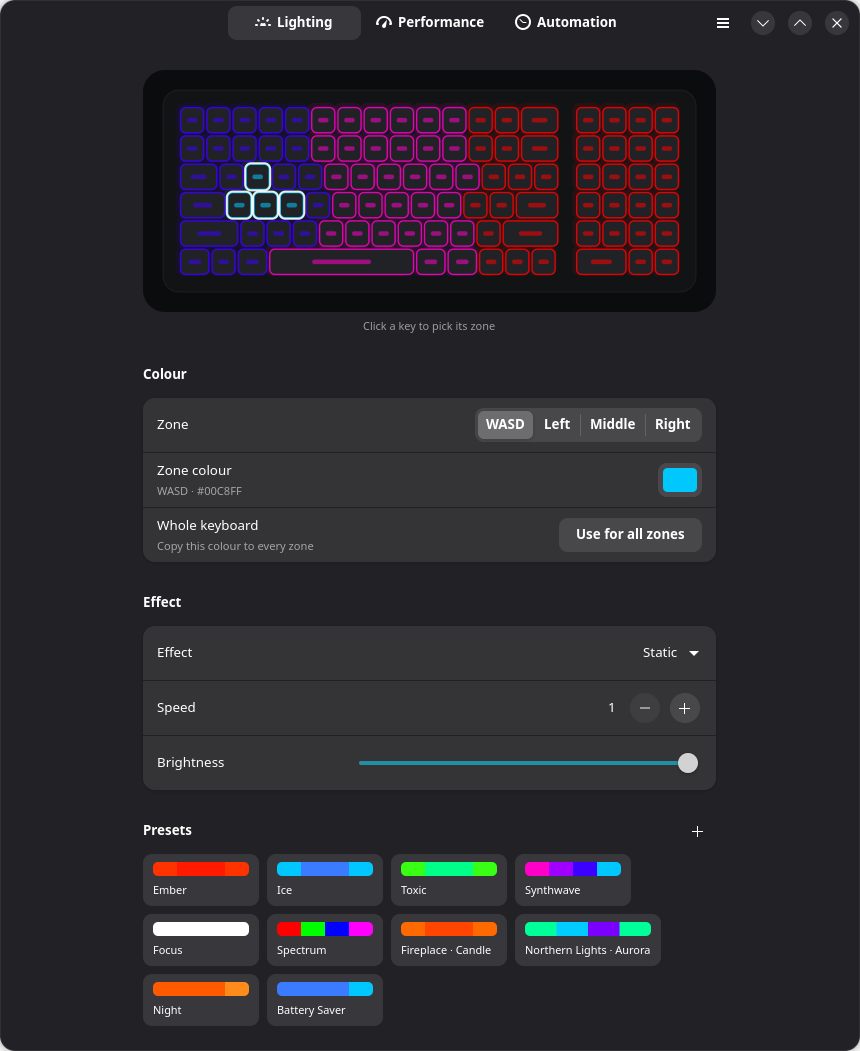
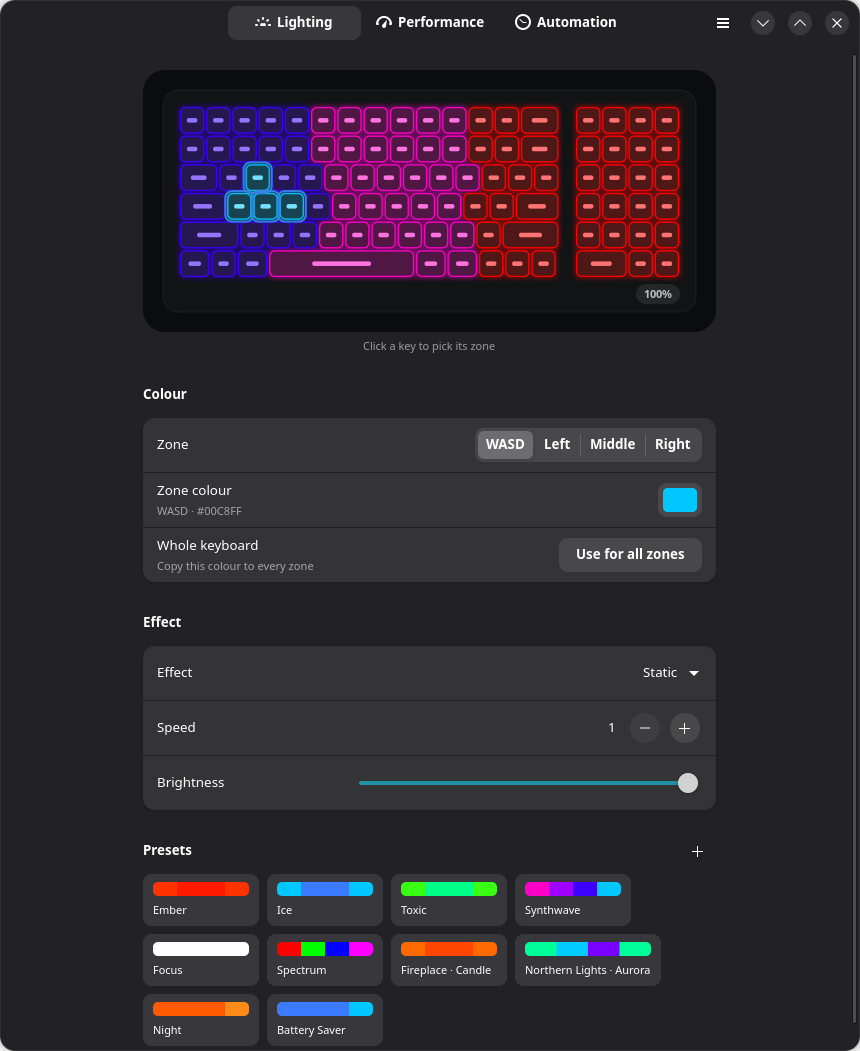
Keyboard preview: light keys according to brightness
Keycaps tint, legends glow and a halo spreads with brightness on a
perceptual curve; 0% shows unlit keys. The selected zone gets an accent
ring so white zones stay readable, the preview follows the slider live,
and a badge shows the level.

diff --git a/prism/widgets.py b/prism/widgets.py
@@ -107,7 +107,7 @@ class KeyboardPreview(Gtk.DrawingArea):
 
     def __init__(self, on_select: Callable[[int], None] | None = None):
         super().__init__()
-        self.set_content_height(230)
+        self.set_content_height(250)
         self.set_hexpand(True)
         self.colors: list[RGB] = [(1, 0, 0)] * 4
         self.brightness = 1.0
@@ -180,7 +180,8 @@ class KeyboardPreview(Gtk.DrawingArea):
         cr.stroke()
 
         inner = 16
-        kx, ky, kw, kh = bx + inner, by + inner, bw - 2 * inner, bh - 2 * inner
+        foot = 26  # strip under the keys for the brightness badge
+        kx, ky, kw, kh = bx + inner, by + inner, bw - 2 * inner, bh - 2 * inner - foot + 8
         main_units = max(sum(r[0]) for r in self.ROWS)
         pad_units, gap_units = 4, 0.6
         unit = kw / (main_units + gap_units + pad_units)
@@ -201,30 +202,66 @@ class KeyboardPreview(Gtk.DrawingArea):
                     x += kwid
         self._keys = keys
 
-        if b > 0:
-            for x, y, kwid, kh_, zone in keys:
-                cr.set_source_rgba(*_scale(self._shown[zone], b), 0.10)
-                rounded_rect(cr, x - g, y - g, kwid + g, kh_ + g, 8)
-                cr.fill()
+        # Perceived light: a 15% backlight still reads as dimly lit, not off.
+        k = b ** 0.55 if b > 0 else 0.0
+        if k > 0:
+            # Soft halo leaking around each key, widest at full brightness.
+            for spread, alpha in ((g * 2.6, 0.05), (g * 1.6, 0.08), (g * 0.8, 0.12)):
+                for x, y, kwid, kh_, zone in keys:
+                    cr.set_source_rgba(*self._shown[zone], alpha * k)
+                    rounded_rect(cr, x - spread / 2, y - spread / 2, kwid + spread, kh_ + spread, 8)
+                    cr.fill()
         for x, y, kwid, kh_, zone in keys:
-            c = _scale(self._shown[zone], b)
-            rounded_rect(cr, x + g / 2, y + g / 2, kwid - g, kh_ - g, 5)
-            cr.set_source_rgb(0.13, 0.135, 0.15)
+            c = self._shown[zone]
+            x0, y0, w0, h0 = x + g / 2, y + g / 2, kwid - g, kh_ - g
+            # Keycap: dark plastic tinted by the light shining through it.
+            rounded_rect(cr, x0, y0, w0, h0, 5)
+            base = 0.12
+            cr.set_source_rgb(*(base + (v - base) * 0.22 * k for v in c))
             cr.fill_preserve()
-            cr.set_source_rgba(*c, 0.85)
+            if k > 0:
+                cr.set_source_rgba(*c, 0.35 + 0.6 * k)
+            else:
+                cr.set_source_rgba(1, 1, 1, 0.08)
             cr.set_line_width(1.4)
             cr.stroke()
-            cr.set_source_rgba(*c, 0.55)
-            rounded_rect(cr, x + kwid * 0.3, y + kh_ * 0.42, kwid * 0.4, kh_ * 0.16, 2)
+            # Legend: the brightest part, close to white at full brightness.
+            lx, ly, lw, lh = x + kwid * 0.3, y + kh_ * 0.42, kwid * 0.4, kh_ * 0.16
+            if k > 0:
+                hot = tuple(v + (1 - v) * 0.45 * k for v in c)
+                cr.set_source_rgba(*hot, 0.25 + 0.75 * k)
+            else:
+                cr.set_source_rgba(1, 1, 1, 0.10)
+            rounded_rect(cr, lx, ly, lw, lh, 2)
             cr.fill()
 
         if self.selected is not None:
-            cr.set_source_rgba(1, 1, 1, 0.9)
+            # Accent ring around the selected zone's keys, offset so the zone's own
+            # colour (even white) stays visible.
+            cr.set_source_rgba(0.21, 0.52, 0.89, 0.95)
             cr.set_line_width(2)
             for x, y, kwid, kh_, zone in keys:
                 if zone == self.selected:
-                    rounded_rect(cr, x + g / 2 - 1, y + g / 2 - 1, kwid - g + 2, kh_ - g + 2, 6)
+                    rounded_rect(cr, x + g / 2 - 2.5, y + g / 2 - 2.5, kwid - g + 5, kh_ - g + 5, 7)
                     cr.stroke()
+
+        # Brightness badge
+        label = "Off" if b <= 0 else f"{round(b * 100)}%"
+        cr.select_font_face("Sans", 0, 1)
+        cr.set_font_size(11)
+        ext = cr.text_extents(label)
+        bw_, bh_ = ext.width + 16, 20
+        rx, ry = bx + bw - bw_ - inner, by + bh - bh_ - 8
+        rounded_rect(cr, rx, ry, bw_, bh_, 10)
+        cr.set_source_rgba(1, 1, 1, 0.08)
+        cr.fill()
+        cr.set_source_rgba(1, 1, 1, 0.7)
+        cr.move_to(rx + 8 - ext.x_bearing, ry + bh_ / 2 - ext.y_bearing - ext.height / 2)
+        cr.show_text(label)
+
+    def set_brightness(self, percent: float) -> None:
+        self.brightness = percent / 100
+        self.queue_draw()
 
 
 class Swatch(Gtk.DrawingArea):

diff --git a/prism/app.py b/prism/app.py
@@ -204,15 +204,14 @@ class LightingPage(Gtk.Box):
     def _brightness_changed(self, scale):
         if self._loading:
             return
+        self.preview.set_brightness(scale.get_value())  # follow the slider live
         # Coalesce slider drags into one firmware call every 80 ms.
         if self._brightness_timer:
             GLib.source_remove(self._brightness_timer)
 
         def commit():
             self._brightness_timer = 0
-            if _run(self.win, self.dev.set_brightness, int(scale.get_value())):
-                self.preview.brightness = scale.get_value() / 100
-                self.preview.queue_draw()
+            _run(self.win, self.dev.set_brightness, int(scale.get_value()))
             return GLib.SOURCE_REMOVE
         self._brightness_timer = GLib.timeout_add(80, commit)
 
